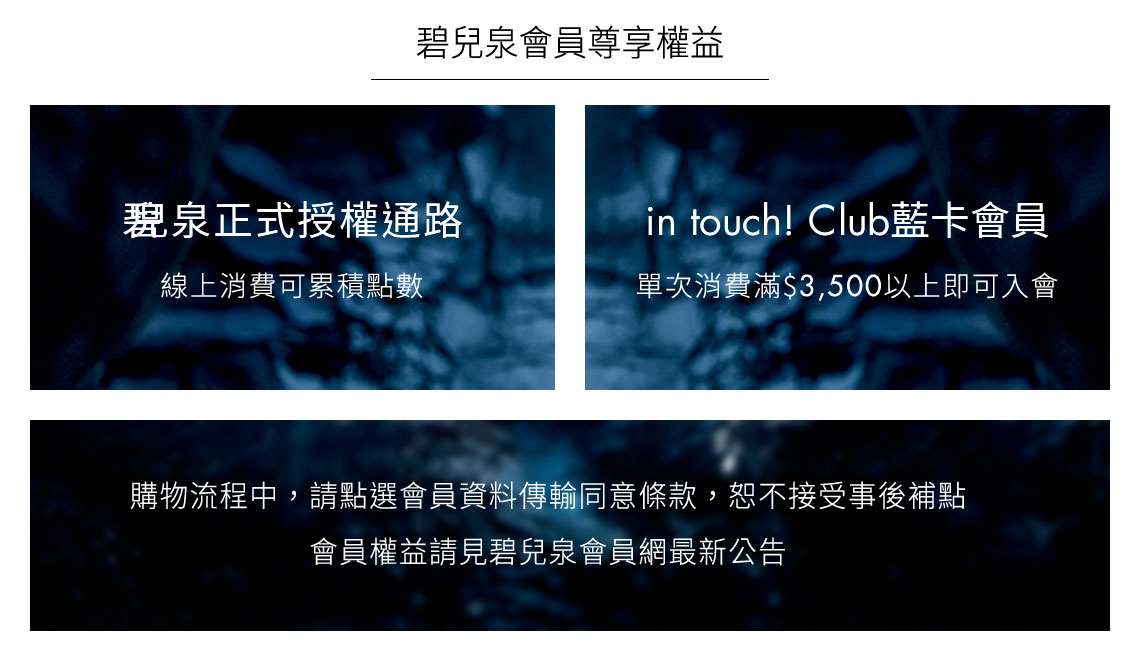
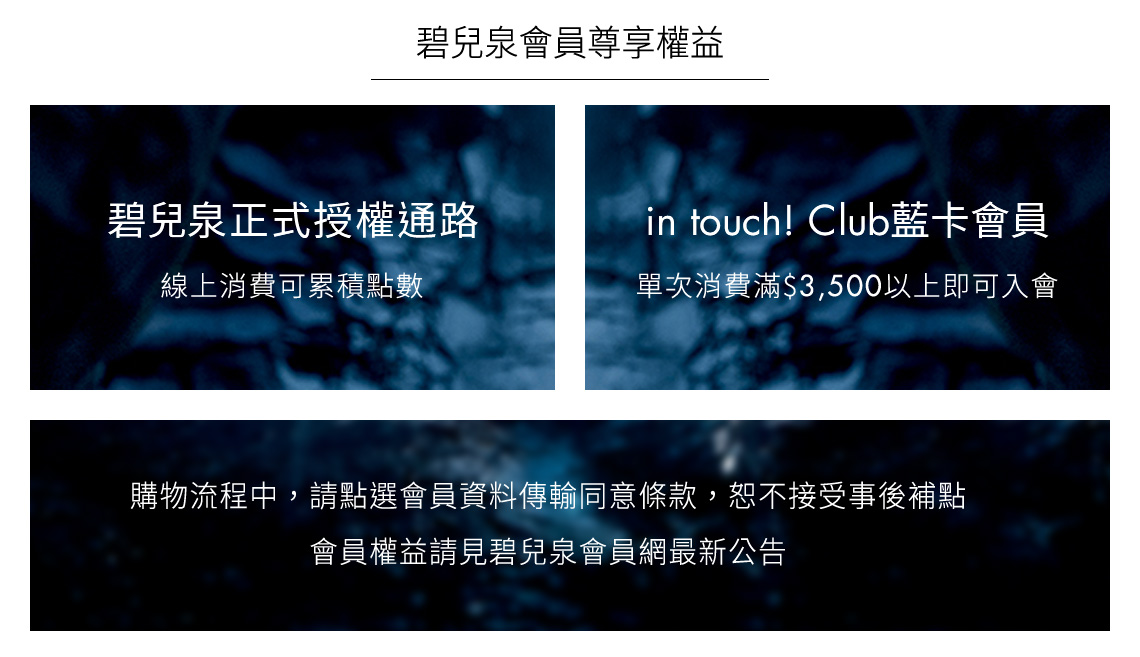
190805

Changed region(s): [[0.0921, 0.3044, 0.4298, 0.3653]]

diff --git a/index.html b/index.html
@@ -325,26 +325,26 @@
                 </div>
                 <div class="bg">
                     <a href="https://24h.pchome.com.tw/store/DDCO06" target="_brank">
-                            <img src="images/event-bn/star-pd-02-pc.jpg">
-                            <img src="images/event-bn/star-pd-02-mb.jpg">
+                            <img src="images/event-bn/star-pd-02-pc-190805.jpg">
+                            <img src="images/event-bn/star-pd-02-mb-190805.jpg">
                         </a>
                 </div>
                 <div class="bg">
                     <a href="https://24h.pchome.com.tw/store/DDCO06" target="_brank">
-                            <img src="images/event-bn/star-pd-03-pc.jpg">
-                            <img src="images/event-bn/star-pd-03-mb.jpg">
+                            <img src="images/event-bn/star-pd-03-pc-190805.jpg">
+                            <img src="images/event-bn/star-pd-03-mb-190805.jpg">
                         </a>
                 </div>
                 <div class="bg">
                     <a href="https://24h.pchome.com.tw/store/DDCO06" target="_brank">
-                            <img src="images/event-bn/star-pd-04-pc.jpg">
-                            <img src="images/event-bn/star-pd-04-mb.jpg">
+                            <img src="images/event-bn/star-pd-04-pc-190805.jpg">
+                            <img src="images/event-bn/star-pd-04-mb-190805.jpg">
                         </a>
                 </div>
                 <div class="bg">
                     <a href="https://24h.pchome.com.tw/store/DDCO06" target="_brank">
-                            <img src="images/event-bn/star-pd-05-pc.jpg">
-                            <img src="images/event-bn/star-pd-05-mb.jpg">
+                            <img src="images/event-bn/star-pd-05-pc-190805.jpg">
+                            <img src="images/event-bn/star-pd-05-mb-190805.jpg">
                         </a>
                 </div>
             </div>
@@ -360,8 +360,8 @@
             </div>
             <div class="bg">
                 <a href="https://24h.pchome.com.tw/store/DDCO1M" target="_brank">             
-                    <img src="images/04-summer-pd-01-pc.jpg">
-                    <img src="images/04-summer-pd-01-mb.jpg">
+                    <img src="images/04-summer-pd-01-pc-190805.jpg">
+                    <img src="images/04-summer-pd-01-mb-190805.jpg">
                 </a>
             </div>
             <div class="divide15"></div>
@@ -398,8 +398,8 @@
             <div class="divide30"></div>
             <div class="bg">
                 <a href="https://24h.pchome.com.tw/store/DDCO00" target="_brank">             
-                    <img src="images/05-man-class-01-pd-pc.jpg">
-                    <img src="images/05-man-class-01-pd-mb.jpg">
+                    <img src="images/05-man-class-01-pd-pc-190805.jpg">
+                    <img src="images/05-man-class-01-pd-mb-190805.jpg">
                 </a>
             </div>
             <div class="divide30"></div>
@@ -412,8 +412,8 @@
             <div class="divide30"></div>
             <div class="bg">
                 <a href="https://24h.pchome.com.tw/store/DDCO02" target="_brank">             
-                    <img src="images/05-man-class-02-pd-pc.jpg">
-                    <img src="images/05-man-class-02-pd-mb.jpg">
+                    <img src="images/05-man-class-02-pd-pc-190805.jpg">
+                    <img src="images/05-man-class-02-pd-mb-190805.jpg">
                 </a>
             </div>
             <div class="divide30"></div>
@@ -426,8 +426,8 @@
             <div class="divide30"></div>
             <div class="bg">
                 <a href="https://24h.pchome.com.tw/store/DDCO01" target="_brank">             
-                    <img src="images/05-man-class-03-pd-pc.jpg">
-                    <img src="images/05-man-class-03-pd-mb.jpg">
+                    <img src="images/05-man-class-03-pd-pc-190805.jpg">
+                    <img src="images/05-man-class-03-pd-mb-190805.jpg">
                 </a>
             </div>
             <div class="bg">
